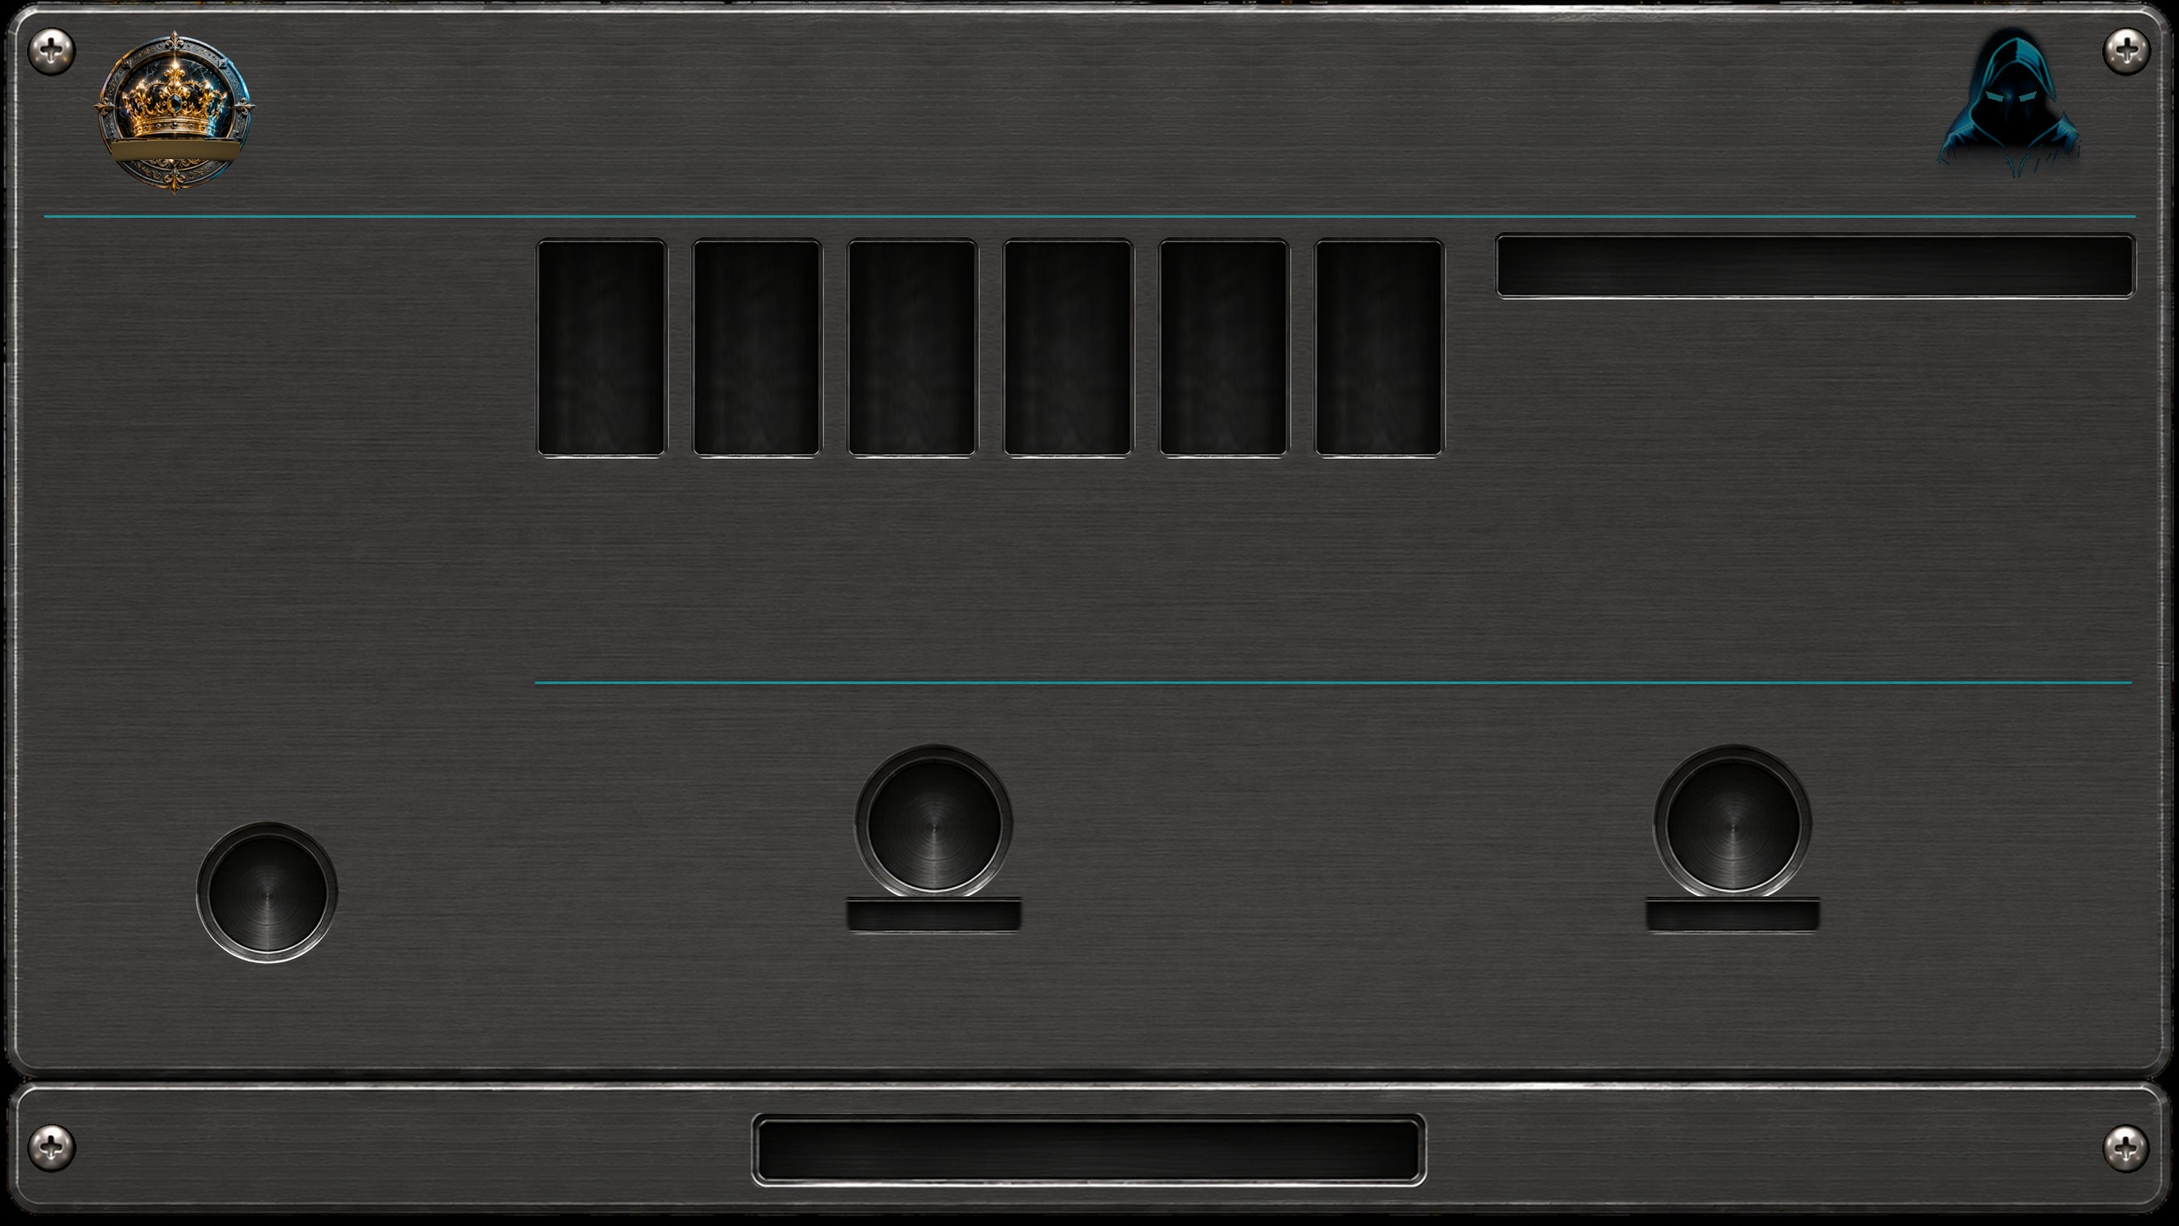
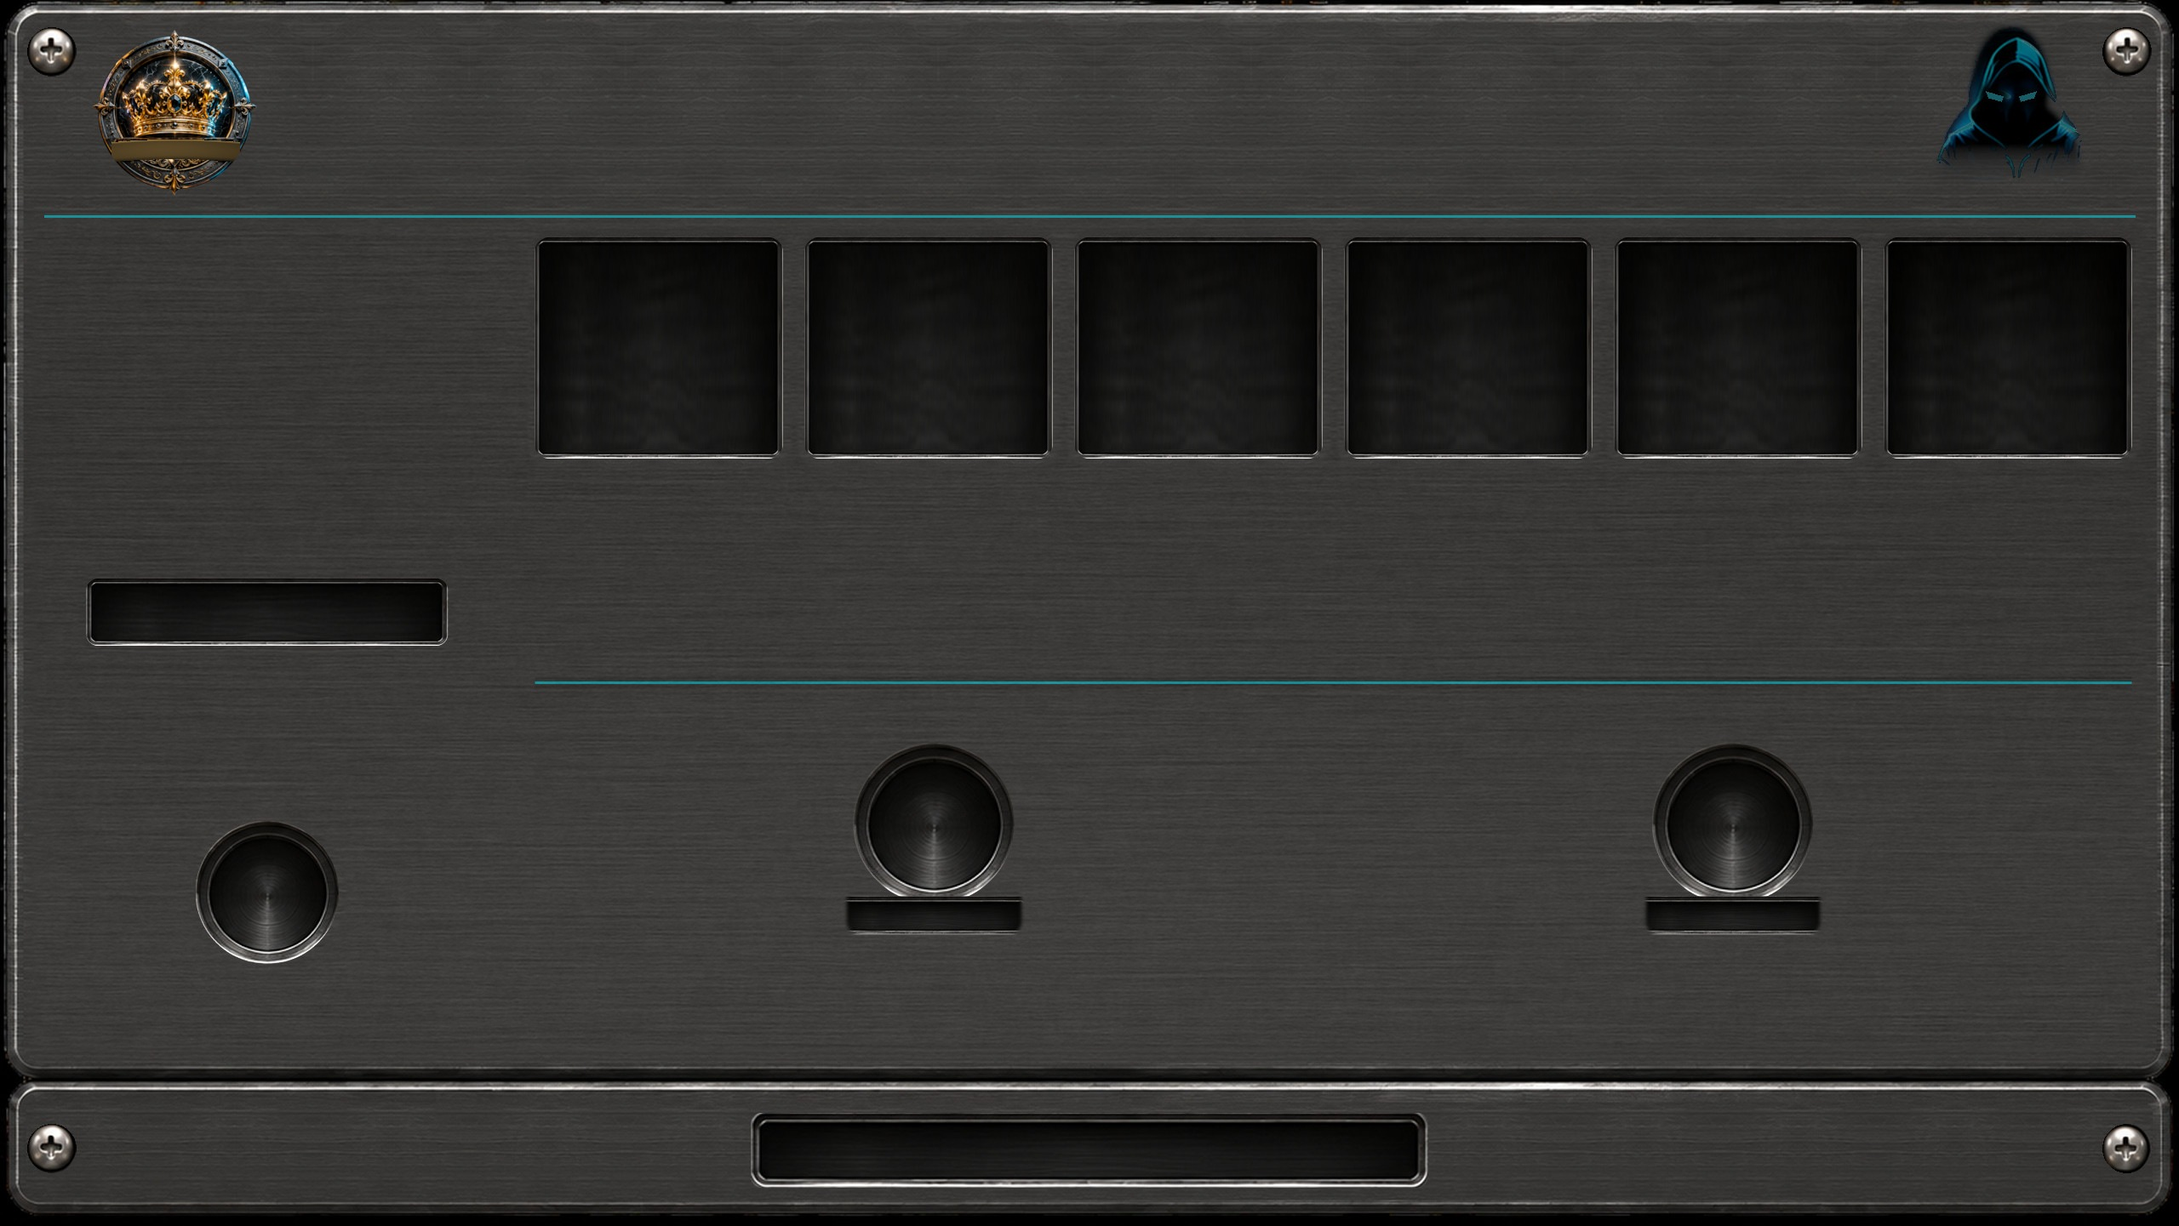
0.52.1: readouts and switches checked at real text size; WITNESS meters full width
- FaceView readout: side by side when name + widest number fit, else stacked (name top-left, number bottom-right);
  the number never takes the name's room; unit only where it fits
- FaceView switch: 'NAME  OFF' / 'NAME OFF' / name alone, chosen on the longer OFF
- tests: crampedButtons and crampedReadouts use the real letter widths at both zooms
- choice names shortened where they didn't fit; THE WITNESS re-plated

Claude-Session: https://claude.ai/code/session_01HpdFvd7bBHkE3T1yX1rXGx

diff --git a/rackui/src/FaceView.cpp b/rackui/src/FaceView.cpp
@@ -726,14 +726,20 @@ void FaceView::readout(const Ctx& c, const Widget& w) const {
     if (std::fabs(v) < 0.05f) v = 0.0f;   // no "-0.0"
     const TextStyle cs = c.ts(TextStyle::Caption);
     const bool small = w.r.h < 110.0f;   // a short window: a smaller number
-    // under 72 high there is no room for the unit under the name (they ran into each other: "BAND 1" on "dB"), so
-    // the unit goes after the name on the same line
-    const bool oneLine = w.r.h < 72.0f;
-    const float nameW = r.textWidth(cs, w.caption);
+    const bool tall = !small;            // a tall window: the name on top, the number on its own line at the bottom
+    const bool oneLine = w.r.h < 72.0f;  // too short to stack the unit under the name
+    const float nameW = r.textWidth(cs, w.caption), unitW = w.lo.empty() ? 0.0f : r.textWidth(cs, w.lo);
+    const float numMinW = r.textWidth(cs, readoutWidest(w.hi));
+    // A short window holds the name and the number side by side when they fit at the smallest size, with the unit
+    // after the name when that fits too; when they don't (STRAIGHT EDGE's 172-wide band windows: "BAND 1 dB +0.0"
+    // ran together), the name goes in the top-left corner and a small number in the bottom-right.
+    const bool sideBySide = !oneLine || nameW + 14 * z + numMinW <= b.w - 36 * z;
+    const bool showUnit = !w.lo.empty() && (!oneLine || (sideBySide ? nameW + 10 * z + unitW + 14 * z + numMinW <= b.w - 36 * z
+                                                                        : nameW + 10 * z + unitW <= b.w - 36 * z));
     if (oneLine) {
-        const float base = b.cy() + r.capHeight(cs) * 0.5f;
+        const float base = sideBySide ? b.cy() + r.capHeight(cs) * 0.5f : b.y + 6 * z + r.capHeight(cs);
         r.text(cs, w.caption, b.x + 18 * z, base, th_.label, Align::Left, TextFx::Shadowed);
-        r.text(cs, w.lo, b.x + 18 * z + nameW + 10 * z, base, th_.teal, Align::Left, TextFx::Shadowed);
+        if (showUnit) r.text(cs, w.lo, b.x + 18 * z + nameW + 10 * z, base, th_.teal, Align::Left, TextFx::Shadowed);
     } else {
         r.text(cs, w.caption, b.x + 18 * z, b.y + 30 * z, th_.label, Align::Left, TextFx::Shadowed);
         if (small) r.text(cs, w.lo, b.x + 18 * z, b.bottom() - 16 * z, th_.teal, Align::Left, TextFx::Shadowed);
@@ -755,10 +761,15 @@ void FaceView::readout(const Ctx& c, const Widget& w) const {
         std::snprintf(t, sizeof t, f, static_cast<double>(v));
     }
     const bool over = w.hi == "CEIL" && v > plain(c.host, rack::limiter::Ceiling) + 0.05f;   // true peak above the ceiling
-    // the left side keeps the name and unit; on a narrow window the number gets only what they leave
-    const float words = oneLine ? nameW + 10 * z + r.textWidth(cs, w.lo) : std::max(nameW, r.textWidth(cs, w.lo));
-    const float room = std::max(b.w - 36 * z - words - 14 * z, b.w * 0.3f);
-    const TextStyle big = c.fit(small ? TextStyle::Panel : TextStyle::Display, t, std::min(b.w * (small ? 0.5f : 0.55f), room));
+    if (oneLine && !sideBySide) {   // stacked: a small number in the bottom-right corner, under the name
+        const TextStyle ns = c.fit(TextStyle::Value, t, b.w - 36 * z);
+        r.text(ns, t, b.right() - 18 * z, b.bottom() - 6 * z, over ? th_.red : th_.teal, Align::Right, TextFx::Shadowed);
+        return;
+    }
+    // side by side, the number gets what the name (and unit) leave; on a tall window it has its own line
+    const float words = tall ? 0.0f : oneLine ? (showUnit ? nameW + 10 * z + unitW : nameW) : std::max(nameW, unitW);
+    const float room = tall ? b.w - 36 * z : b.w - 36 * z - words - 14 * z;
+    const TextStyle big = c.fit(small ? TextStyle::Panel : TextStyle::Display, t, tall ? room : std::min(b.w * 0.5f, room));
     r.text(big, t, b.right() - 18 * z, b.bottom() - (small ? 14 : 18) * z, over ? th_.red : th_.teal, Align::Right, TextFx::Shadowed);
 }
 
@@ -1094,7 +1105,18 @@ void FaceView::draw(Renderer& r, const PanelHost& host, const FaceFeed& feed, co
                 button(c, c.T(w.r), t, false, hot, false, th_.teal);
                 break;
             }
-            t += t.empty() ? (on ? "ON" : "OFF") : (on ? "  ON" : "  OFF");   // a grid row's switch: the row says what it is
+            // a grid row's switch shows ON / OFF only (the row says what it is); a named switch shows its name and its
+            // state, with one space when two don't fit, and its name alone when even that doesn't fit at the smallest
+            // size ("MECHANICS  OFF" ran past both edges): the button's light says ON or OFF. Decided on the longer
+            // "OFF", so the words don't change form when it's pressed.
+            if (t.empty()) {
+                t = on ? "ON" : "OFF";
+            } else {
+                const float room = c.T(w.r).w - 12 * c.z;
+                const TextStyle smallest = c.ts(TextStyle::Caption);
+                if (r.textWidth(smallest, t + "  OFF") <= room) t += on ? "  ON" : "  OFF";
+                else if (r.textWidth(smallest, t + " OFF") <= room) t += on ? " ON" : " OFF";
+            }
             button(c, c.T(w.r), t, on, hot, !host.active(param), th_.teal);
             break;
         }

diff --git a/tests/TextRoom.hpp b/tests/TextRoom.hpp
@@ -192,29 +192,60 @@ inline float captionWidth(const std::string& t) {
     return w;
 }
 
-// Every button's words fit inside it, even at the smallest text size the plate shrinks to
-// (choice buttons: the choice's name; switches: the caption + "  OFF").
+// Every button's words fit inside it at the size the plate draws them (the button's text shrinks to fit, but not
+// below the smallest style), 6 units clear each side: a switch shows its caption + "  ON" / "  OFF" (or " ON" when
+// the two spaces don't fit, as FaceView does), a choice button its choice's name.
 inline int crampedButtons(const hem::ui::FaceLayout& L, std::span<const hc::fx::ParamInfo> ps, const char* name) {
     using hem::ui::WKind;
     int n = 0;
     for (const hem::ui::Widget& w : L.widgets) {
-        std::string t;
-        // choice buttons: measured on the 0.18.0 screenshots, their words come out ~30 % wider than the
-        // estimate and may run to 3 units from each edge; switches keep the original margin
-        float scale = 1.0f, margin = 16.0f;
+        std::vector<std::string> texts;
         if (w.kind == WKind::ChoiceButton && w.param >= 0 && w.param < static_cast<int>(ps.size()) && ps[static_cast<std::size_t>(w.param)].choices) {
-            t = ps[static_cast<std::size_t>(w.param)].choices[w.choice];
-            scale = 1.3f;
-            margin = 6.0f;
+            texts.push_back(ps[static_cast<std::size_t>(w.param)].choices[w.choice]);
         } else if (w.kind == WKind::Toggle && w.hi != "PRESS") {
-            t = w.caption + "  OFF";
+            // as FaceView draws it: "NAME  OFF", "NAME OFF", or the name alone (the light shows the state)
+            const std::string cap = w.caption;
+            if (cap.empty()) texts.push_back("OFF");
+            else if (extent(St::Label, cap + " OFF", w.r.w - 12.0f).w <= w.r.w - 12.0f) texts.push_back(cap + " OFF");
+            else texts.push_back(cap);
+        } else if (w.kind == WKind::Toggle) {
+            texts.push_back(w.caption);
         } else {
             continue;
         }
-        const float need = captionWidth(t) * scale;
-        if (need > w.r.w - margin) {
+        for (const std::string& t : texts) {
+            const float need = extent(St::Label, t, w.r.w - 12.0f).w;
+            if (need > w.r.w - 12.0f) {
+                ++n;
+                std::printf("  %s: the words '%s' don't fit their %.0f-wide button (need %.0f)\n", name, t.c_str(), static_cast<double>(w.r.w),
+                            static_cast<double>(need + 12.0f));
+            }
+        }
+    }
+    return n;
+}
+
+// Every readout window holds its words at the smallest size, as FaceView lays them out: a short window (under 72)
+// the name and its widest number side by side, or failing that stacked (name top-left, number bottom-right); a taller
+// one the name and unit on the left and the number beside them; a tall one (110 and up) the number on its own line.
+// 18 units in from each side, 14 between side-by-side words.
+inline int crampedReadouts(const hem::ui::FaceLayout& L, const char* name) {
+    using hem::ui::WKind;
+    int n = 0;
+    for (const hem::ui::Widget& w : L.widgets) {
+        if (w.kind != WKind::Readout) continue;
+        const float inner = w.r.w - 36.0f;
+        const float nameW = extent(St::Caption, w.caption, 1e9f).w;
+        const float unitW = w.lo.empty() ? 0.0f : extent(St::Caption, w.lo, 1e9f).w;
+        const float numW = extent(St::Caption, hem::ui::readoutWidest(w.hi), 1e9f).w;
+        bool ok;
+        if (w.r.h < 72.0f) ok = nameW + 14.0f + numW <= inner || (nameW <= inner && numW <= inner);
+        else if (w.r.h < 110.0f) ok = std::max(nameW, unitW) + 14.0f + numW <= inner;
+        else ok = nameW <= w.r.w - 26.0f && unitW <= w.r.w - 26.0f && numW <= inner;   // the name alone on its line: 8 clear on the right
+        if (!ok) {
             ++n;
-            std::printf("  %s: the words '%s' don't fit their %.0f-wide button\n", name, t.c_str(), static_cast<double>(w.r.w));
+            std::printf("  %s: readout '%s' (%.0f x %.0f) is too small for its words\n", name, w.caption.c_str(), static_cast<double>(w.r.w),
+                        static_cast<double>(w.r.h));
         }
     }
     return n;

diff --git a/rackui/src/FaceLayouts.cpp b/rackui/src/FaceLayouts.cpp
@@ -1775,9 +1775,10 @@ FaceLayout stakeoutFace(const rack::PluginInfo& info) {
     L.widgets.back().hi = "PRESS";
     L.widgets.push_back(toggle({210, 404, 130, 36}, ClearClips, "CLIPS"));
     L.widgets.back().hi = "PRESS";
-    L.widgets.push_back(toggle({70, 452, 85, 36}, HoldL, "HOLD L"));
+    // the holds' resets: L / R / SUM (the HOLD readouts say what they reset; "HOLD L" didn't fit an 85-wide button)
+    L.widgets.push_back(toggle({70, 452, 85, 36}, HoldL, "L"));
     L.widgets.back().hi = "PRESS";
-    L.widgets.push_back(toggle({162, 452, 85, 36}, HoldR, "HOLD R"));
+    L.widgets.push_back(toggle({162, 452, 85, 36}, HoldR, "R"));
     L.widgets.back().hi = "PRESS";
     L.widgets.push_back(toggle({254, 452, 86, 36}, HoldSum, "SUM"));
     L.widgets.back().hi = "PRESS";
@@ -2024,7 +2025,10 @@ FaceLayout specFace(const rack::PluginInfo& info) {
     const bool twoRows = !S.row2.empty();
     // what sits beside the screen
     const bool needleReadouts = (S.screen == Screen::Needle || S.screen == Screen::Clone) && !S.readouts.empty();
-    const bool column = screen && (!S.choices.empty() || !S.toggles.empty() || needleReadouts);
+    // Five or more readouts beside a column of nothing but switches (THE WITNESS: six 103-wide windows, too narrow for
+    // "PEAK L") take the whole width; the switches go down the left instead.
+    const bool readoutsWide = S.screen == Screen::Readouts && S.readouts.size() >= 5 && S.choices.empty();
+    const bool column = screen && !readoutsWide && (!S.choices.empty() || !S.toggles.empty() || needleReadouts);
     if (S.bands) {
         specBands(L, S);
     } else if (screen) {
@@ -2149,7 +2153,8 @@ FaceLayout specFace(const rack::PluginInfo& info) {
         y += static_cast<float>(count) * 46 + 44;
     }
     std::vector<rack::PlateToggle> lt(S.leftToggles.begin(), S.leftToggles.end());
-    if (!screen && !S.bands) lt.insert(lt.end(), S.toggles.begin(), S.toggles.end());
+    if ((!screen && !S.bands) || (screen && !column && S.screen == Screen::Readouts && S.readouts.size() >= 5 && S.choices.empty()))
+        lt.insert(lt.end(), S.toggles.begin(), S.toggles.end());
     if (!S.left.empty()) y -= 30;
     for (const rack::PlateChoice& c : S.steppers) {
         Widget st;

diff --git a/rackfx/src/streets/Racket.cpp b/rackfx/src/streets/Racket.cpp
@@ -29,7 +29,7 @@ using hideout::Wave;
 const char* const kPedalN[kPedals] = {"OVERDRIVE", "HARD CLIP", "FUZZ", "RASP", "HEAVY",
                                       "FLANGE", "VIB / TREM", "AUTO PAN", "PHASE", "OCT DOWN", "WAH", "CHORUS", "THICKEN", "PITCH RIDE", "BASS RIDE",
                                       "ECHO", "FLIP ECHO", "ROOM", "SPRING",
-                                      "SQUEEZE", "SLAM", "GATE", "CLEAN UP", "TONE STACK", "GRAPHIC", "VOLUME"};
+                                      "SQUEEZE", "SLAM", "GATE", "CLEAN UP", "TONESTACK", "GRAPHIC", "VOLUME"};
 const char* const kInputN[] = {"STEREO", "MONO", "MONO > WIDE"};
 const char* const kWaveN[] = {"SINE", "TRIANGLE", "SAW UP", "SAW DOWN", "SQUARE"};
 constexpr Wave kWaveOf[] = {Wave::Sine, Wave::Triangle, Wave::SawUp, Wave::SawDown, Wave::Square};

diff --git a/rackfx/src/streets/Promotion.cpp b/rackfx/src/streets/Promotion.cpp
@@ -14,7 +14,7 @@ namespace {
 using namespace hideout;
 
 const char* const kEntryN[] = {"TRANSPOSE", "FREQUENCY"};
-const char* const kModeN[] = {"SYNC", "SMOOTH", "TRANSIENT", "PUNCHY"};
+const char* const kModeN[] = {"SYNC", "SMOOTH", "ATTACK", "PUNCHY"};   // ATTACK (was TRANSIENT, which didn't fit its button)
 const char* const kSemiN[] = {"-OCTAVE", "-MAJ 7TH", "-MIN 7TH", "-MAJ 6TH", "-MIN 6TH", "-5TH", "-TRITONE", "-4TH", "-MAJ 3RD", "-MIN 3RD", "-MAJ 2ND",
                               "-MIN 2ND", "UNISON", "+MIN 2ND", "+MAJ 2ND", "+MIN 3RD", "+MAJ 3RD", "+4TH", "+TRITONE", "+5TH", "+MIN 6TH", "+MAJ 6TH",
                               "+MIN 7TH", "+MAJ 7TH", "+OCTAVE"};

diff --git a/rackui/include/hem/ui/Face.hpp b/rackui/include/hem/ui/Face.hpp
@@ -221,6 +221,15 @@ inline constexpr const char* kSidechainTip = "External sidechain: VST3 only";
     return v;
 }
 
+// The widest number a readout can show in its format (to keep room for it beside the name).
+[[nodiscard]] inline const char* readoutWidest(const std::string& fmt) noexcept {
+    if (fmt == "+2") return "-60.00";
+    if (fmt == "0") return "888";
+    if (fmt == "note") return "C#4";
+    if (fmt == "key") return "Bb MIN";
+    return "-60.0";
+}
+
 [[nodiscard]] inline bool exclusive(const Widget& a, const Widget& b) noexcept {
     return a.showParam >= 0 && a.showParam == b.showParam && a.showValue != b.showValue;
 }

diff --git a/rackfx/src/Tools.cpp b/rackfx/src/Tools.cpp
@@ -26,7 +26,7 @@ inline float soft(float v) noexcept { return v / std::cbrt(1.0f + std::fabs(v) *
 // ---- STEREO WIDTH ---------------------------------------------------------------------------------
 namespace wid {
 using namespace width;
-const char* const kMonoN[] = {"OFF", "80 Hz", "120 Hz", "160 Hz", "250 Hz"};
+const char* const kMonoN[] = {"OFF", "80Hz", "120Hz", "160Hz", "250Hz"};   // no space: "250 Hz" didn't fit a 92-wide button
 const char* const kIoN[] = {"L / R", "M / S"};
 const char* const kOnOffW[] = {"OFF", "ON"};
 const ParamInfo kParams[kCount] = {

diff --git a/rackfx/src/MoreDynamics.cpp b/rackfx/src/MoreDynamics.cpp
@@ -51,7 +51,7 @@ struct Work {
 // ---- VCA COMP -------------------------------------------------------------------------------------
 namespace vc {
 using namespace vca;
-const char* const kScN[] = {"OFF", "60 Hz", "90 Hz", "150 Hz", "250 Hz"};
+const char* const kScN[] = {"OFF", "60Hz", "90Hz", "150Hz", "250Hz"};   // no space: "250 Hz" didn't fit a 92-wide button
 const char* const kTailN[] = {"STEADY", "LINGER"};
 const char* const kCharN[] = {"CLEAN", "WARM"};
 const ParamInfo kParams[kCount] = {

diff --git a/rackfx/src/tone/Bass.cpp b/rackfx/src/tone/Bass.cpp
@@ -344,7 +344,7 @@ private:
 namespace dp {
 using namespace deeppockets;
 const char* const kHpN[] = {"6 dB 16 Hz", "12 dB", "24 dB"};
-const char* const kListenN[] = {"ALL", "OVERTONES", "REAL BASS"};
+const char* const kListenN[] = {"ALL", "ADDED", "REAL BASS"};   // ADDED: only what the plug-in adds ("OVERTONES" didn't fit its button)
 const ParamInfo kParams[kCount] = {
     {"frequency", "Frequency", "Hz", 32.0f, 256.0f, 90.0f, Taper::Log},
     {"input", "Input", "dB", -60.0f, 0.0f, 0.0f},

diff --git a/tests/face_tests.cpp b/tests/face_tests.cpp
@@ -95,6 +95,7 @@ void layoutRules(const rack::PluginInfo& info) {
     // ...and no caption, value, note or section name runs into a control or into other text.
     CHECK(textroom::clashes(L, fx->params(), info.name) == 0);
     CHECK(textroom::crampedButtons(L, fx->params(), info.name) == 0);
+    CHECK(textroom::crampedReadouts(L, info.name) == 0);
     // Every parameter can be reached from the faceplate.
     std::set<int> reach;
     int pages = 0;

diff --git a/installer/RELEASE-NOTES.md b/installer/RELEASE-NOTES.md
@@ -13,7 +13,13 @@ are drawn. Fixed properly this time:
 - Shorter values where knobs sit close: "-12 dB" (not "-12.0 dB"), "1.50 s" (not "1500 ms"), "16.0 kHz"; in tight
   grids (TEN TOES, THE SETUP's steps, SIX SHOOTER's taps, INSIDE MAN) the number only, the row's or knob's name says
   what it is.
-- Small readouts write the unit after the name ("BAND 1  dB") instead of on top of it.
+- Small readouts: name and number side by side (the unit after the name when it fits), or the name in the top-left
+  corner and the number in the bottom-right when the window is too narrow. THE WITNESS's six meters take the whole
+  width (CLEAR moved to the left column). A test checks every readout window has room for its words.
+- Switch words: one space ("DITHER ON") when two don't fit, and the name alone when even that doesn't fit (the light
+  shows ON or OFF). A test checks every switch's and choice button's words fit at the size drawn.
+- Choice names that didn't fit their buttons: DEEP POCKETS ADDED (was OVERTONES), PROMOTION ATTACK (was TRANSIENT),
+  THE RACKET TONESTACK, ENFORCER / WIDE LOAD "250Hz"; STAKEOUT's hold resets read L / R / SUM.
 - Some names shortened: TORCH's mics (DYN / COND / RIB, ON / OFF the axis), DRIVE-BY (PASS, CLOSEST), WIDE LOAD
   (WIDEN, BELOW), THE CHAIRMAN (LOW HZ), PAWN SHOP (LO CUT, HI CUT), GRAND LARCENY (VELOCITY, PIANO), THE SETUP (ENV).
 
